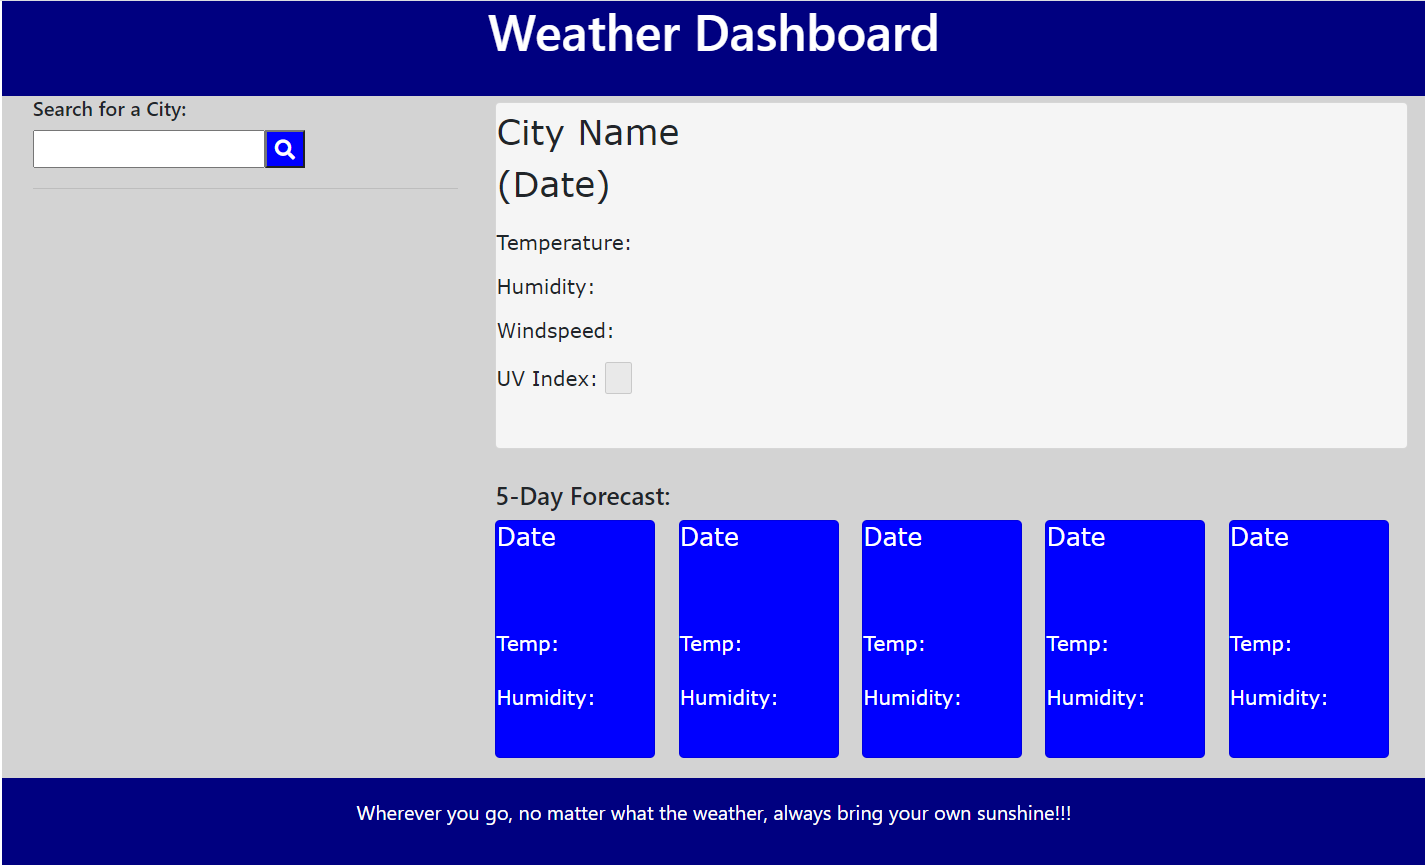
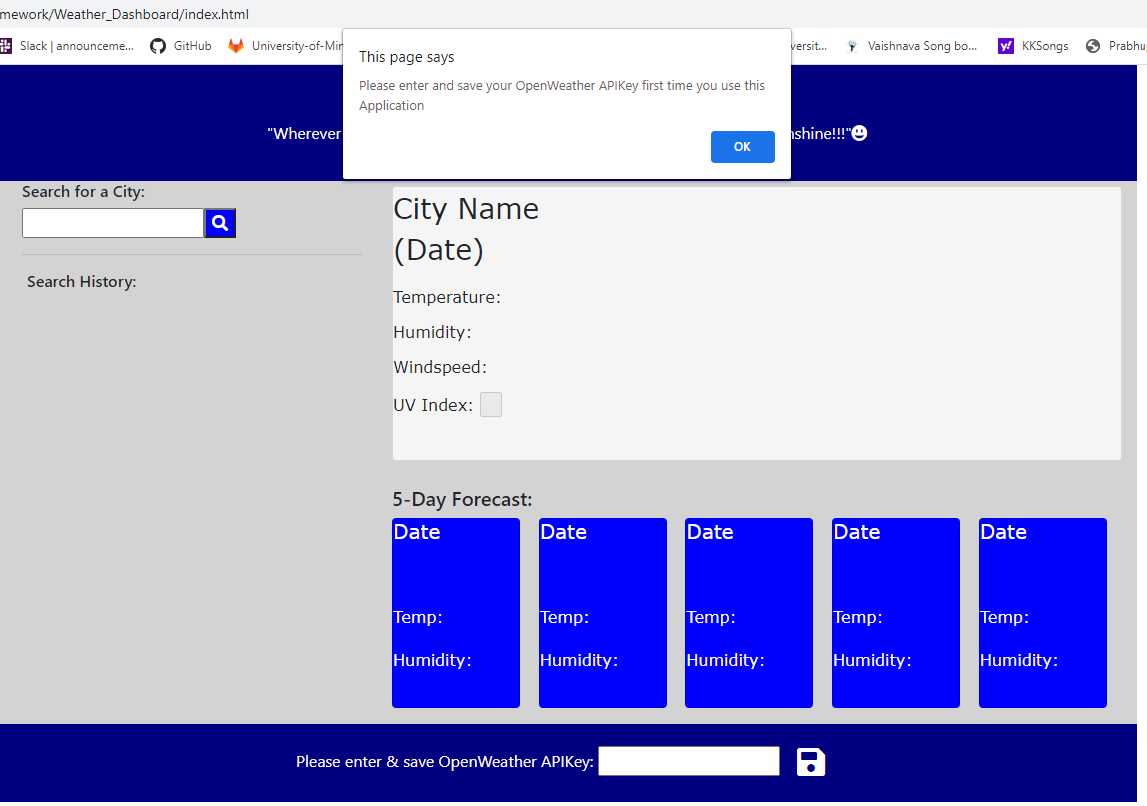
added API entry option and removed hardcoded APIKey from the code

diff --git a/Assets/js/weather.js b/Assets/js/weather.js
@@ -1,11 +1,24 @@
 $(document).ready(function(){
 
     var cityArray = [];
-    API_Key = "6b4ab0fdec08806ec39ecd7e60892ebc";
-
+    var API_Key;
+    var APIKeyFlag = false;
+    
     // Function definition to run at the time of Application/Page
-    // If there were any prioir city searches, they will be pulled from local storage
+    
     function run_onload(){
+
+        //Get APIKey from local storage at the time of the load
+        //If it is not available, alert user to enter and save an APIKey
+        if (localStorage.getItem("Weather_APIKey") !== null) {
+            API_Key = localStorage.getItem("Weather_APIKey");
+            APIKeyFlag = true;
+        } else{
+            alert("Please enter and save your OpenWeather APIKey first time you use this Application");
+        }
+        
+        // Pull searched history from local history if any
+
         if (localStorage.getItem("Weather_cityArray") !== null) {
             cityArray = JSON.parse(localStorage.getItem("Weather_cityArray"));
             for ( var i = 0; i < cityArray.length ; i++) {
@@ -15,6 +28,7 @@ $(document).ready(function(){
             $(".citySrch").val(cityArray[cityArray.length-1]);
             ajax_citySrch(lastCitySrched);
         }
+
     }
  
     // Invoke the page load function - Load the prioir searched city forecast
@@ -157,11 +171,13 @@ $(document).ready(function(){
         }
         else {
             var newSearch = true;
-            ajax_citySrch(cityName, newSearch);
-            // if (cityFoundFlag) {
-            //     checkCityArray(cityName);
-            //     addCityButton(cityName);
-            // }
+            if (APIKeyFlag){
+                ajax_citySrch(cityName, newSearch);
+            }
+            else{
+                alert("Please enter and save OpenWeather API Key the first time you use this application");
+            }
+            //ajax_citySrch(cityName, newSearch);
         }
     })
 
@@ -174,6 +190,19 @@ $(document).ready(function(){
 
         $(".citySrch").val(cityName);
         ajax_citySrch(cityName, newSearch);
+    })
+
+    $(".saveAPIBtn").on("click", function(){
+
+        if ($(".APIKey").val() === ""){
+            alert ("API Key is empty");
+        } else {
+            API_Key = $(".APIKey").val();
+            localStorage.setItem("Weather_APIKey", API_Key);
+            APIKeyFlag = true;
+            alert ("API Key is saved locally");
+            $(".APIKey").val("");
+        }
     })
 
 

diff --git a/index.html b/index.html
@@ -21,6 +21,7 @@
         <div class="row">
             <div class="col-lg-12 header">
                 <h1><span class="header">Weather Dashboard</span></h1>
+                <p>"Wherever you go, no matter what the weather, always bring your own sunshine!!!"<i class="fa fa-grin-alt" ></i></p>
             </div>
         </div>
         <div class="row">
@@ -160,7 +161,9 @@
         <!--footer-->
         <div class="row footer">
             <div class="col-lg-12">
-                <p>Wherever you go, no matter what the weather, always bring your own sunshine!!!</p>
+                <span>Please enter & save OpenWeather APIKey: <input type="text" class="APIKey" value="">
+                    <button class="btn saveAPIBtn"><i class="fas fa-save fa-2x" style="color:white"></i></button>
+                </span>
             </div>
         </div>
     </div>
